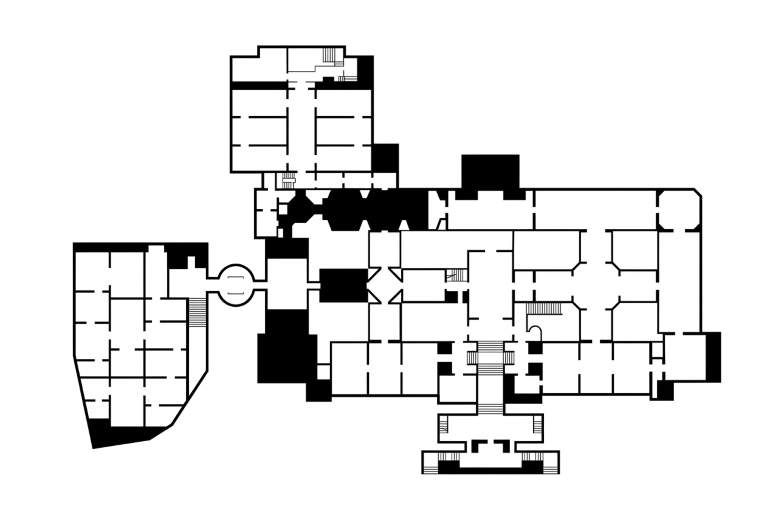
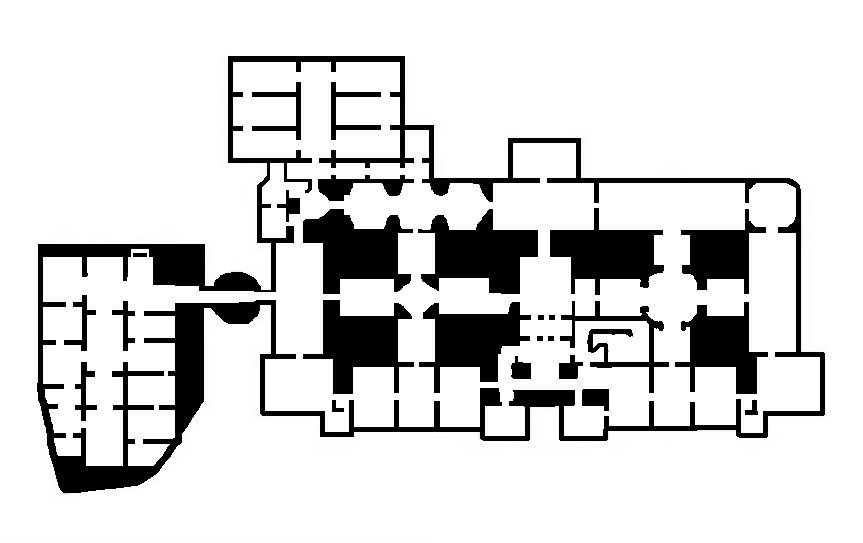
changed maps images and refactored drawpath

Changed region(s): [[0.0303, 0.061, 0.971, 0.9143]]

diff --git a/src/main/java/com/nationalgalleryroutefinder/controller/Controller.java b/src/main/java/com/nationalgalleryroutefinder/controller/Controller.java
@@ -136,18 +136,28 @@ public class Controller implements Initializable {
         animatedLinePath.setStrokeWidth(2);
         animatedLinePath.setManaged(false);
 
+        double scale = Math.min(imageView.getFitWidth() / imageView.getImage().getWidth(), imageView.getFitHeight() / imageView.getImage().getHeight());
+
         // scale the coordinates of the path to the size of the image view
-        double scaleX = imageView.getFitWidth() / imageView.getImage().getWidth();
-        double scaleY = imageView.getFitHeight() / imageView.getImage().getHeight();
+        double displayedWidth = imageView.getImage().getWidth() * scale;
+        double displayedHeight = imageView.getImage().getHeight() * scale;
+
+        double offsetX = (imageView.getFitWidth() - displayedWidth) / 2;
+        double offsetY = (imageView.getFitHeight() - displayedHeight) / 2;
 
         // get the coordinates of the first and last rooms in the path
-        double startX = path.getFirst().getX() * scaleX;
-        double startY = path.getFirst().getY() * scaleY;
-        double endX = path.getLast().getX() * scaleX;
-        double endY = path.getLast().getY() * scaleY;
 
-        System.out.println("Path Start: " + startX + ", " + startY);
-        System.out.println("Path End: " + endX + ", " + endY);
+        Room start = path.get(0);
+        Room end = path.get(path.size() - 1);
+
+        double startX = start.getX() * scale + offsetX;
+        double startY = start.getY() * scale + offsetY;
+
+        double endX = end.getX() * scale + offsetX;
+        double endY = end.getY() * scale + offsetY;
+
+        System.out.println("Path Start: " + start.getX() + ", " + start.getY());
+        System.out.println("Path End: " + end.getX() + ", " + end.getY());
 
         Circle startRoomCircle = new Circle(startX, startY, 5);
         startRoomCircle.setFill(Color.GREEN);
@@ -160,14 +170,16 @@ public class Controller implements Initializable {
         imageOverlayPane.getChildren().addAll(animatedLinePath, startRoomCircle, endRoomCircle);
 
         // move to the first room in the path
-        MoveTo startRoom = new MoveTo(startX, startY);
-        animatedLinePath.getElements().add(startRoom);
+        MoveTo startRoom = new MoveTo(start.getX(), start.getY());
+        animatedLinePath.getElements().add(new MoveTo(startX, startY));
 
         // skip the first room because it is already drawn
         for (int i = 1; i < path.size(); i++) {
             // get the coordinates of the next room in the path
-            double x = path.get(i).getX() * scaleX;
-            double y = path.get(i).getY() * scaleY;
+            Room room = path.get(i);
+
+            double x = room.getX() * scale + offsetX;
+            double y = room.getY() * scale + offsetY;
 
             // create a key frame for each step in the path
             KeyFrame keyFrame = new KeyFrame (